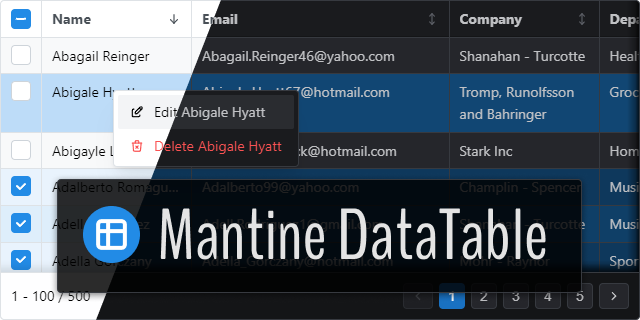
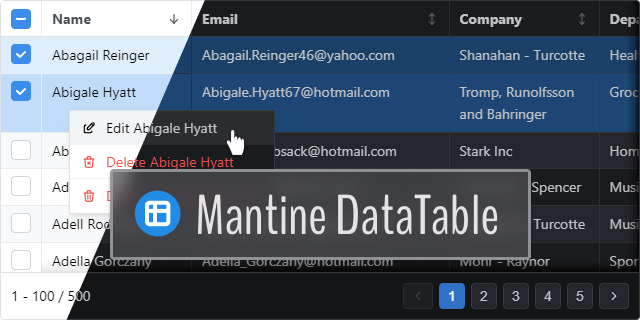
Update docs website pictures

diff --git a/docs/examples/ComplexUsageExample.tsx b/docs/examples/ComplexUsageExample.tsx
@@ -30,7 +30,8 @@ export default function ComplexUsageExample() {
 
   const { data, isFetching } = useQuery(
     ['employees', sortStatus.columnAccessor, sortStatus.direction, page],
-    async () => getEmployeesAsync({ recordsPerPage: PAGE_SIZE, page, sortStatus })
+    async () => getEmployeesAsync({ recordsPerPage: PAGE_SIZE, page, sortStatus }),
+    { refetchOnWindowFocus: false }
   );
 
   const [selectedRecords, setSelectedRecords] = useState<Employee[]>([]);
@@ -141,6 +142,7 @@ export default function ComplexUsageExample() {
               color: 'red',
               onClick: () => showNotification({ color: 'red', message: `Should delete ${firstName} ${lastName}` }),
             },
+            { key: 'divider-1', divider: true },
             {
               key: 'deleteMany',
               hidden: selectedRecords.length <= 1 || !selectedRecords.map((r) => r.id).includes(id),
